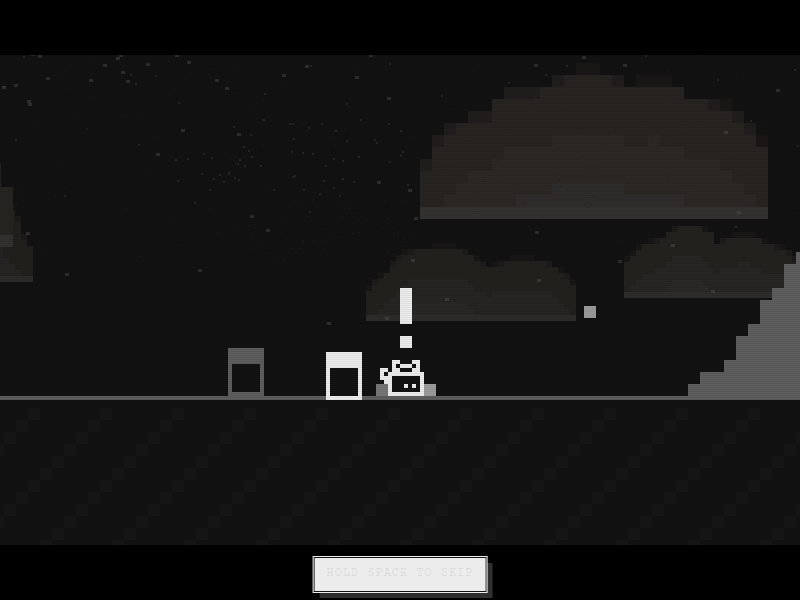
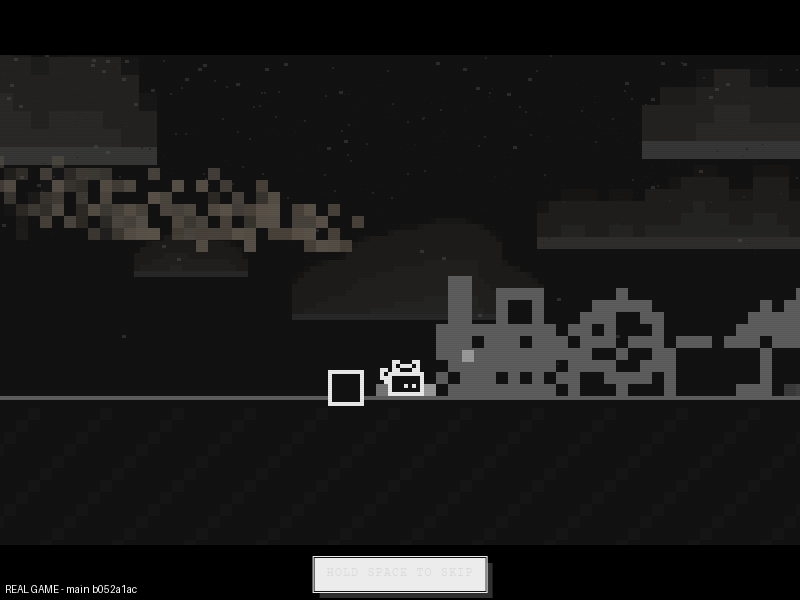
Yard sky: the before/after review, bigger clouds, REAL GAME labels

diff --git a/docs/reviews/2026-10-21-yard-sky/index.html b/docs/reviews/2026-10-21-yard-sky/index.html
@@ -54,7 +54,7 @@ textarea{font:14px system-ui,sans-serif;width:100%;min-height:2.4em;margin-top:6
  <div class="stage" id="lbs"><img id="lbi" alt=""></div>
  <div class="hint">space flips before and after · ← → step through shots · esc closes</div>
 </div>
-<script id="data" type="application/json">{"title":"The yard's sky on the cloud renderer","lede":"Every yard cloud is the shared renderer's: turrets on a flat base, flowing slowly, swelling with the storm's clock and browning with the murk as before. Weather, rain, the storm clock and smog are unchanged.","base":"9370442c6ce6c5f3807ec379ed9c8f234c358657","head":"9bf0ee2e2efb1202fb78fad3fc9f196b57a53396","at":"2026-10-20T20:10:43.400Z","items":[{"id":"clear","title":"A clear sky","what":"the ordinary sky","audit":[],"shots":[{"label":"2000x967 light","before":{"src":"clear/1-before.png","gif":false,"note":""},"after":{"src":"clear/1-after.png","gif":false,"note":""},"pixel":false},{"label":"2000x967 dark","before":{"src":"clear/2-before.png","gif":false,"note":""},"after":{"src":"clear/2-after.png","gif":false,"note":""},"pixel":false},{"label":"800x600 light","before":{"src":"clear/3-before.png","gif":false,"note":""},"after":{"src":"clear/3-after.png","gif":false,"note":""},"pixel":false},{"label":"800x600 dark","before":{"src":"clear/4-before.png","gif":false,"note":""},"after":{"src":"clear/4-after.png","gif":false,"note":""},"pixel":false}]},{"id":"swell","title":"A front at the end of its brew","what":"the clouds swelled by the storm's clock","audit":[],"shots":[{"label":"2000x967 light","before":{"src":"swell/1-before.png","gif":false,"note":""},"after":{"src":"swell/1-after.png","gif":false,"note":""},"pixel":false},{"label":"2000x967 dark","before":{"src":"swell/2-before.png","gif":false,"note":""},"after":{"src":"swell/2-after.png","gif":false,"note":""},"pixel":false},{"label":"800x600 light","before":{"src":"swell/3-before.png","gif":false,"note":""},"after":{"src":"swell/3-after.png","gif":false,"note":""},"pixel":false},{"label":"800x600 dark","before":{"src":"swell/4-before.png","gif":false,"note":""},"after":{"src":"swell/4-after.png","gif":false,"note":""},"pixel":false}]},{"id":"rain","title":"A full storm","what":"the rain under the swelled sky","audit":[],"shots":[{"label":"2000x967 light","before":{"src":"rain/1-before.png","gif":false,"note":""},"after":{"src":"rain/1-after.png","gif":false,"note":""},"pixel":false},{"label":"2000x967 dark","before":{"src":"rain/2-before.png","gif":false,"note":""},"after":{"src":"rain/2-after.png","gif":false,"note":""},"pixel":false},{"label":"800x600 light","before":{"src":"rain/3-before.png","gif":false,"note":""},"after":{"src":"rain/3-after.png","gif":false,"note":""},"pixel":false},{"label":"800x600 dark","before":{"src":"rain/4-before.png","gif":false,"note":""},"after":{"src":"rain/4-after.png","gif":false,"note":""},"pixel":false}]},{"id":"acid","title":"The storm over a dirty sky","what":"the murk's brown in the clouds","audit":[],"shots":[{"label":"2000x967 light","before":{"src":"acid/1-before.png","gif":false,"note":""},"after":{"src":"acid/1-after.png","gif":false,"note":""},"pixel":false}]},{"id":"fallback","title":"No WebGL2","what":"the same clouds as columns, as a page without WebGL2 draws them (CLOUDS_FLAT forced on)","audit":[],"shots":[{"label":"2000x967 light, columns","before":{"note":"error: Error: no such knob: CLOUDS_FLAT"},"after":{"src":"fallback/1-after.png","gif":false,"note":""},"pixel":false}]},{"id":"pan","title":"A pan in the brew","what":"every cloud sliding as one piece","audit":[],"shots":[{"label":"pan","before":{"src":"pan/1-before.gif","gif":true,"note":""},"after":{"src":"pan/1-after.gif","gif":true,"note":""},"pixel":false}]}]}</script>
+<script id="data" type="application/json">{"title":"The yard's sky on the cloud renderer: bigger clouds","lede":"REAL GAME, before = main b052a1ac, after = yard-sky c1544be7. Bigger, fewer yard clouds on the shared renderer, each wholly inside the sky; the front adds clouds by area, so the storm reads the same.","base":"b052a1ac97fb26b682461de8e02e90861dbc0fdb","head":"c1544be7db56c700dced5a00197495d7dfccc0ff","at":"2026-10-20T20:35:29.243Z","items":[{"id":"clear","title":"A clear sky","what":"the ordinary yard sky","audit":[],"shots":[{"label":"REAL GAME 2000x967 light","before":{"src":"clear/1-before.png","gif":false,"note":""},"after":{"src":"clear/1-after.png","gif":false,"note":""},"pixel":false},{"label":"REAL GAME 2000x967 dark","before":{"src":"clear/2-before.png","gif":false,"note":""},"after":{"src":"clear/2-after.png","gif":false,"note":""},"pixel":false},{"label":"REAL GAME 800x600 light","before":{"src":"clear/3-before.png","gif":false,"note":""},"after":{"src":"clear/3-after.png","gif":false,"note":""},"pixel":false},{"label":"REAL GAME 800x600 dark","before":{"src":"clear/4-before.png","gif":false,"note":""},"after":{"src":"clear/4-after.png","gif":false,"note":""},"pixel":false}]},{"id":"swell","title":"A front at the end of its brew","what":"the clouds swelled by the storm's clock","audit":[],"shots":[{"label":"REAL GAME 2000x967 light","before":{"src":"swell/1-before.png","gif":false,"note":""},"after":{"src":"swell/1-after.png","gif":false,"note":""},"pixel":false},{"label":"REAL GAME 2000x967 dark","before":{"src":"swell/2-before.png","gif":false,"note":""},"after":{"src":"swell/2-after.png","gif":false,"note":""},"pixel":false},{"label":"REAL GAME 800x600 light","before":{"src":"swell/3-before.png","gif":false,"note":""},"after":{"src":"swell/3-after.png","gif":false,"note":""},"pixel":false},{"label":"REAL GAME 800x600 dark","before":{"src":"swell/4-before.png","gif":false,"note":""},"after":{"src":"swell/4-after.png","gif":false,"note":""},"pixel":false}]},{"id":"rain","title":"A full storm","what":"the rain under the swelled sky","audit":[],"shots":[{"label":"REAL GAME 2000x967 light","before":{"src":"rain/1-before.png","gif":false,"note":""},"after":{"src":"rain/1-after.png","gif":false,"note":""},"pixel":false},{"label":"REAL GAME 2000x967 dark","before":{"src":"rain/2-before.png","gif":false,"note":""},"after":{"src":"rain/2-after.png","gif":false,"note":""},"pixel":false},{"label":"REAL GAME 800x600 light","before":{"src":"rain/3-before.png","gif":false,"note":""},"after":{"src":"rain/3-after.png","gif":false,"note":""},"pixel":false},{"label":"REAL GAME 800x600 dark","before":{"src":"rain/4-before.png","gif":false,"note":""},"after":{"src":"rain/4-after.png","gif":false,"note":""},"pixel":false}]},{"id":"pan","title":"A pan in the brew","what":"REAL GAME, every cloud sliding as one piece","audit":[],"shots":[{"label":"REAL GAME pan 1000x484 light","before":{"src":"pan/1-before.gif","gif":true,"note":""},"after":{"src":"pan/1-after.gif","gif":true,"note":""},"pixel":false}]}]}</script>
 <script>
 const D = JSON.parse(document.getElementById('data').textContent);
 const rev = {}; let db = null, filter = 'all';
